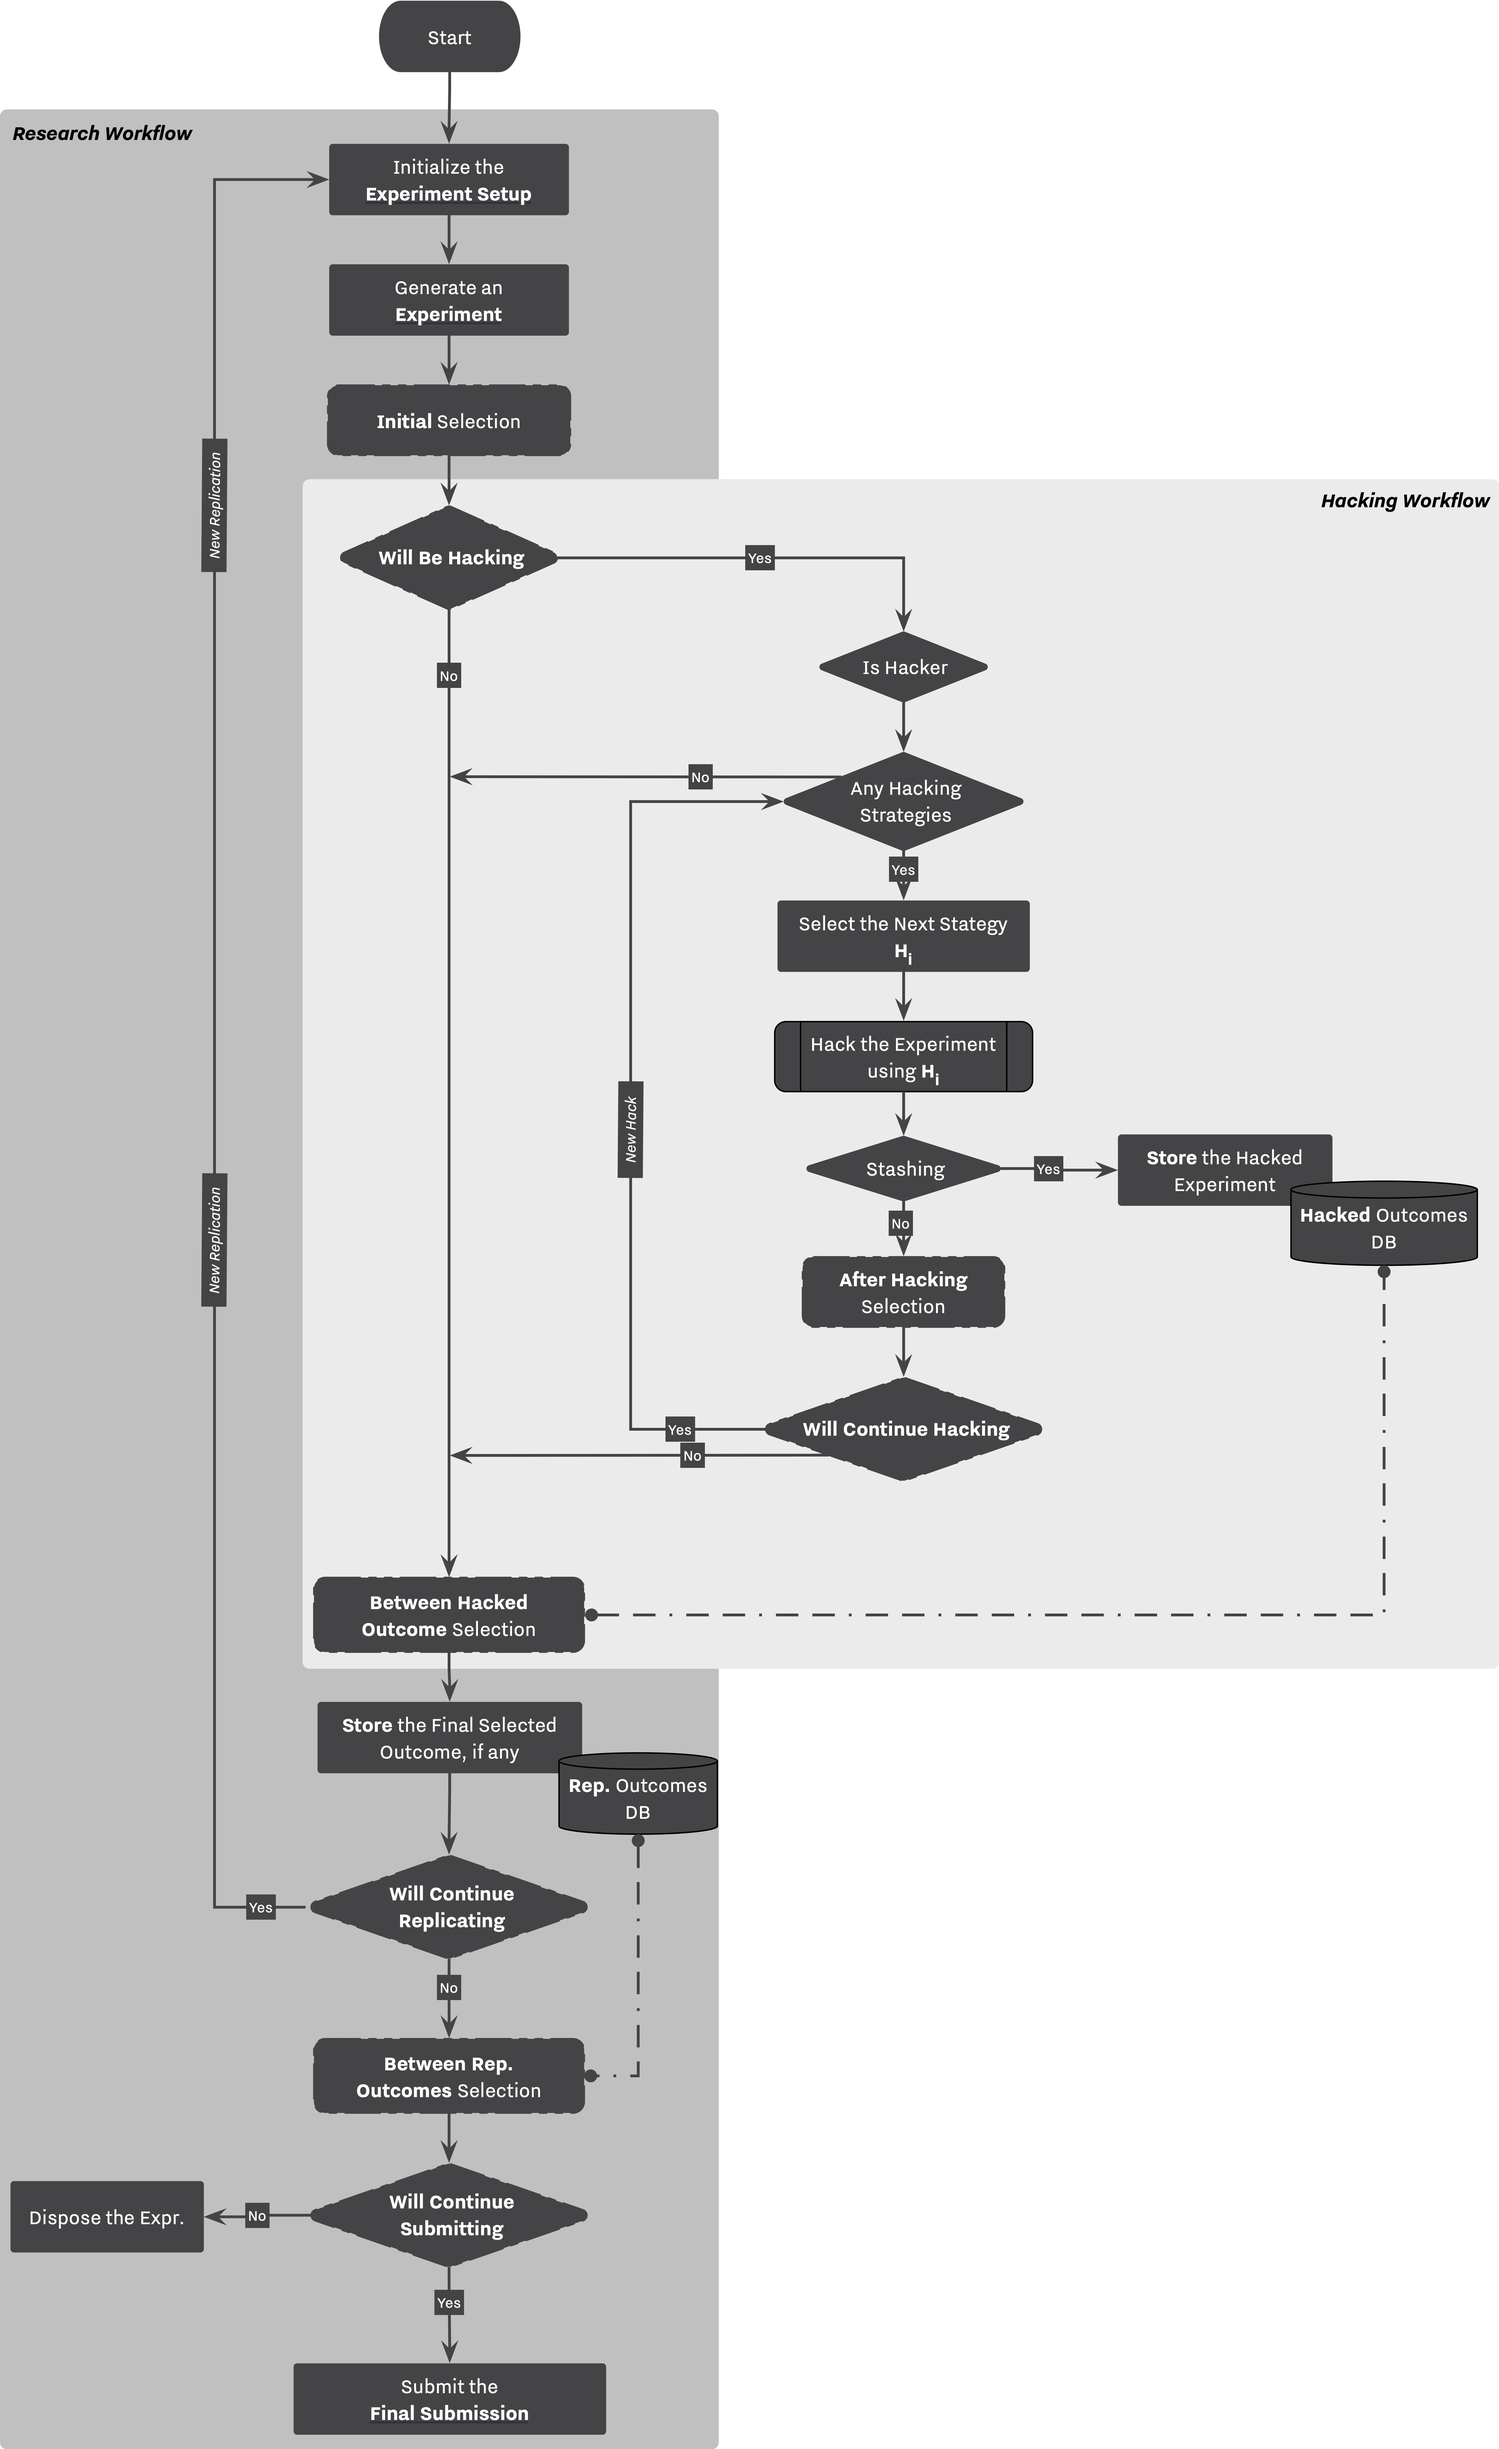
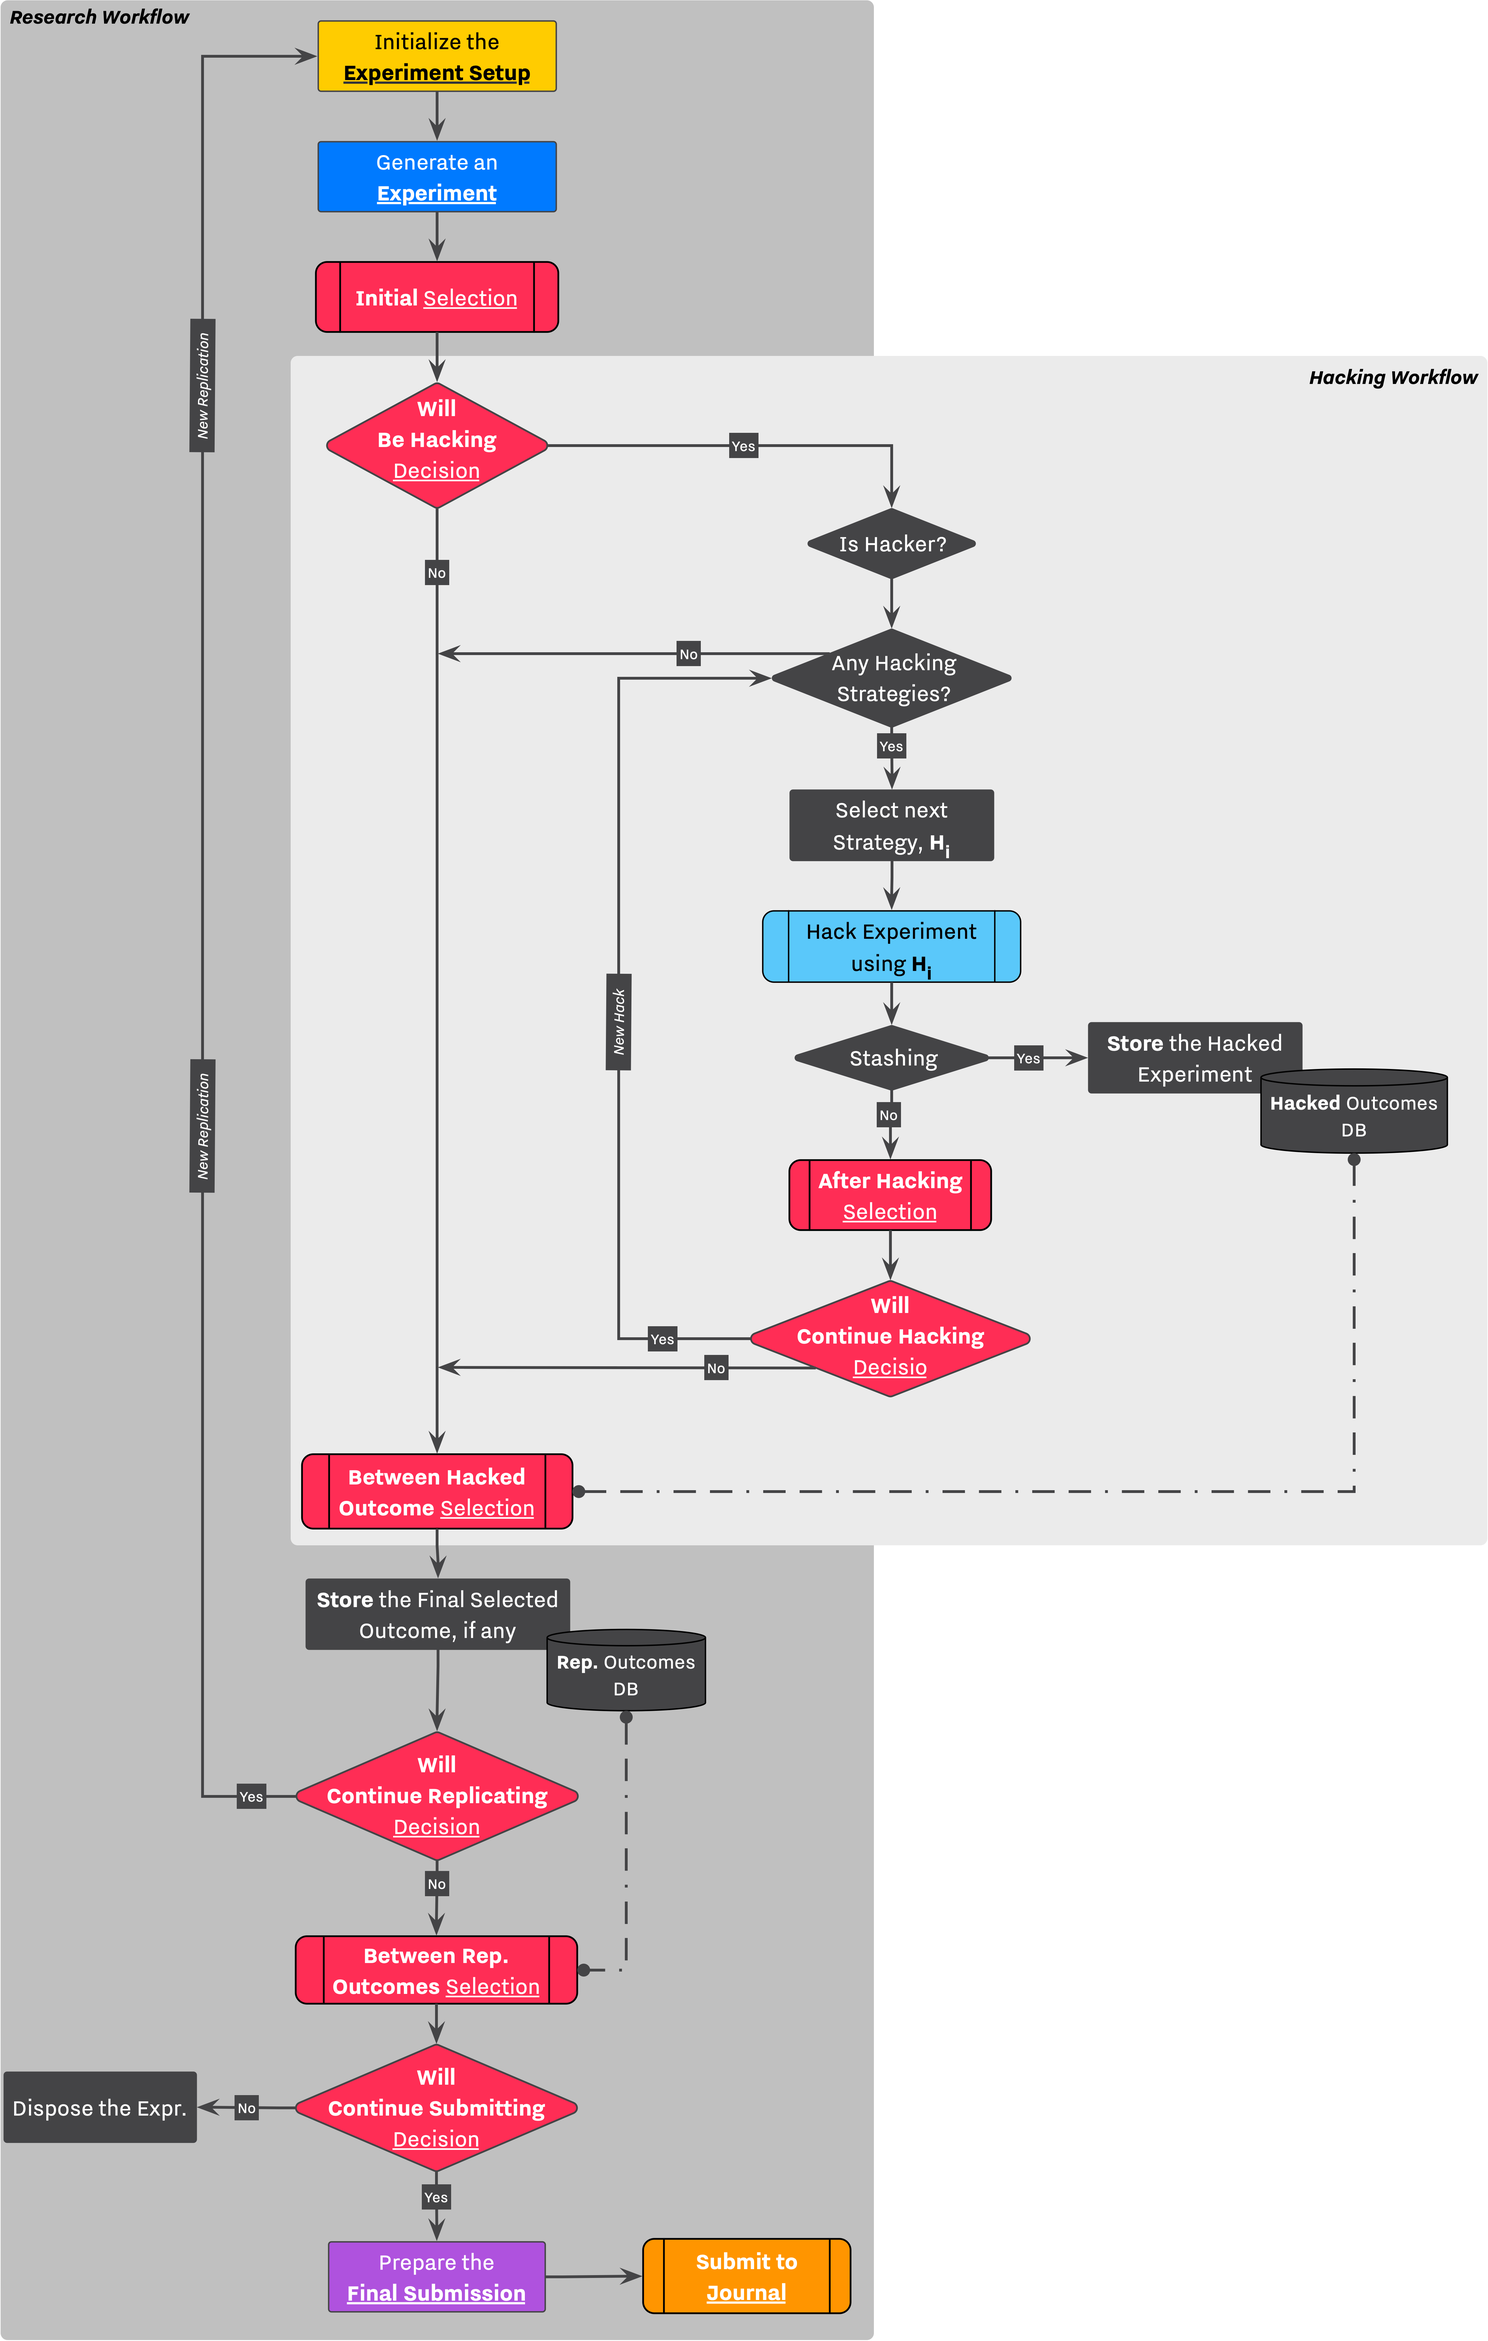
add some colors to research workflow

Changed region(s): [[0.0, 0.0, 0.9966, 1.0], [0.436, 0.2499, 0.4672, 0.2812]]

diff --git a/docs/research-workflow.md b/docs/research-workflow.md
@@ -1,3 +1,7 @@
 # Research Workflow
 
+After [introducing](flow.md) the general execution flow, and clarifying how the general research workflow is implemented, in this section, we will get into the details of Decision Strategy and Research Workflow.
+
+Figure 1 shows the overview of how a `Researcher` conducts her research steps by step. This process is 
+
 ![<b>Figure 1.</b> Overview of Research and Hacking Workflow](/figures/research-workflow.png)
